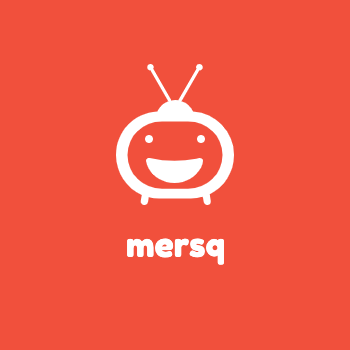
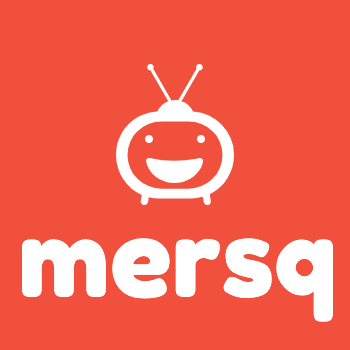
1.08.25_fix_logo_and_fix_user_controller

Changed region(s): [[0.0571, 0.6571, 0.9714, 0.9429]]

diff --git a/app/controllers/users_controller.rb b/app/controllers/users_controller.rb
@@ -28,7 +28,7 @@ class UsersController < ApplicationController
     end
     require 'mechanize'
     user = User.find(params[:id])
-    @user.items.delete_all
+    user.items.delete_all
 
     agent = Mechanize.new
     page = agent.get("#{params[:keyword]}")
